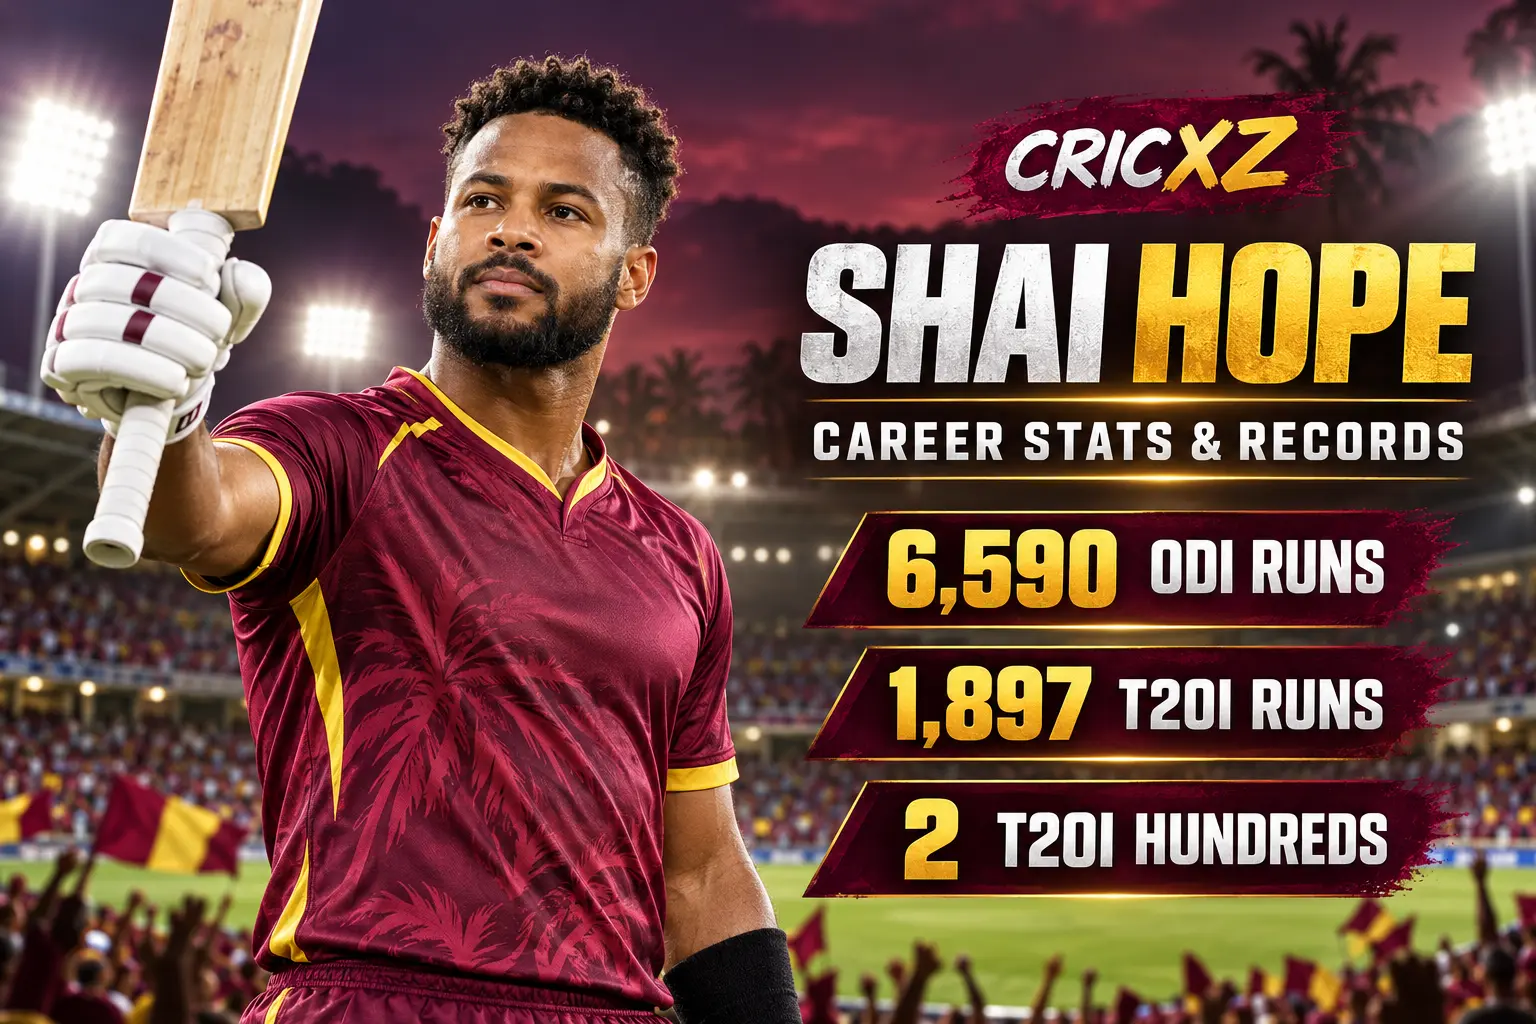
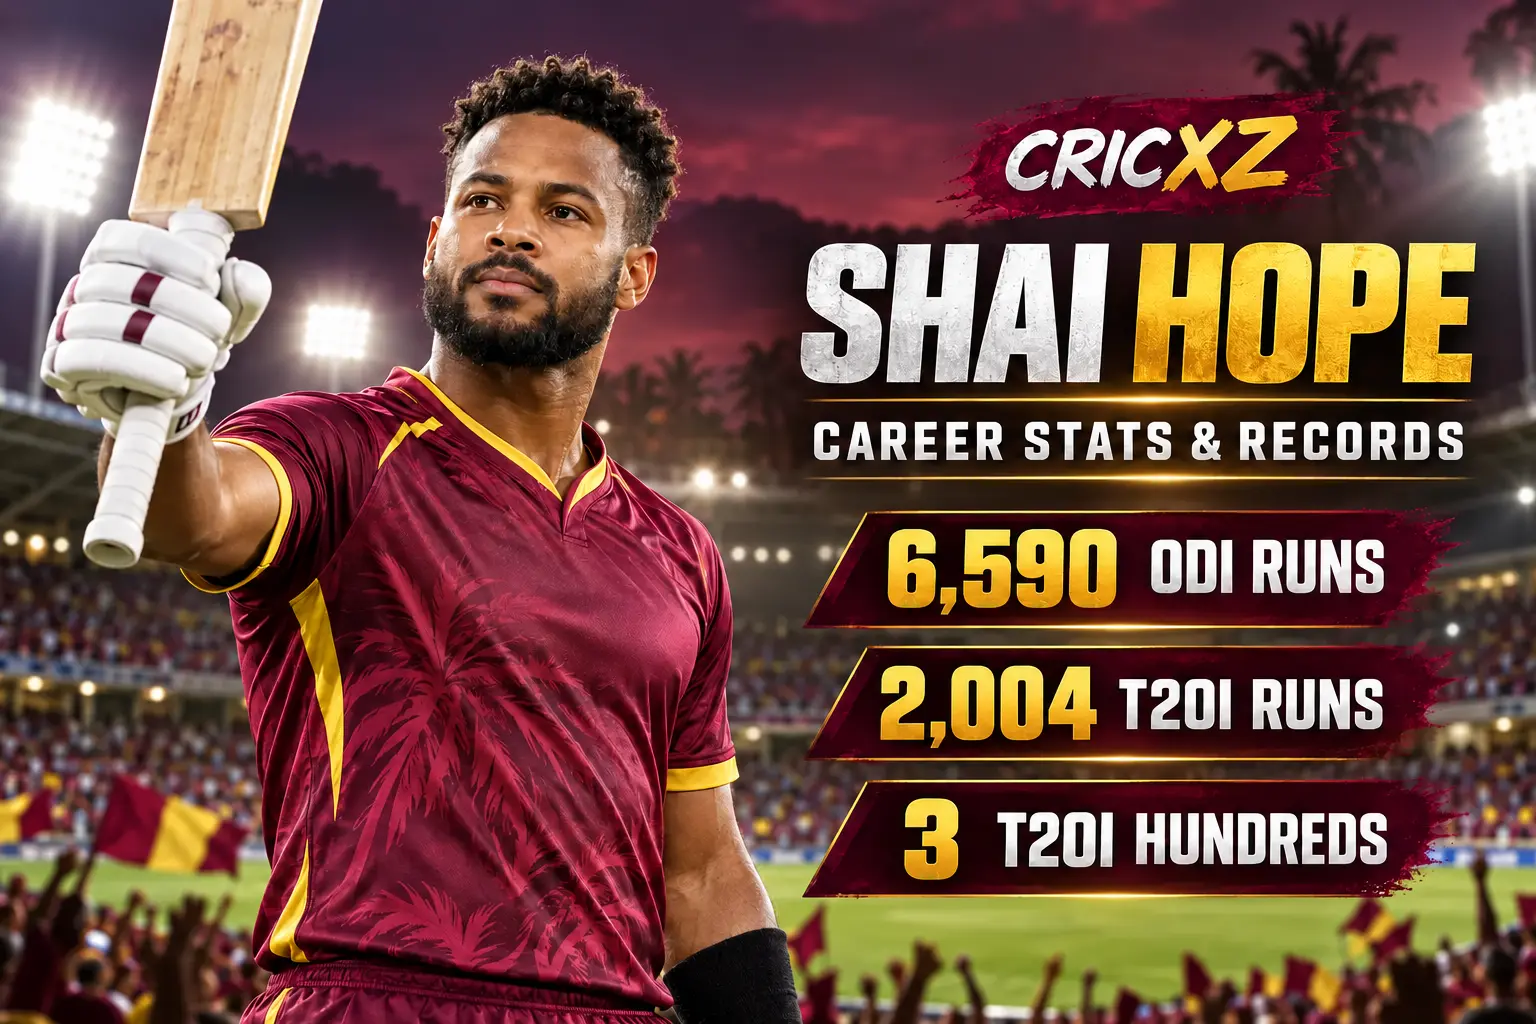
Update Shai Hope profile and T20I career records

diff --git a/pages/shai-hope.html b/pages/shai-hope.html
@@ -9,7 +9,7 @@
 <link rel="apple-touch-icon" sizes="180x180" href="/assets/images/apple-touch-icon.png">
 <script async src="https://pagead2.googlesyndication.com/pagead/js/adsbygoogle.js?client=ca-pub-4846563918248244" crossorigin="anonymous"></script>
 <title>Shai Hope Profile, Career Stats &amp; Records | CricXZ</title>
-<meta name="description" content="Shai Hope profile with verified Test, ODI and T20I career statistics, major records and his unbeaten 102 against India in Ranchi.">
+<meta name="description" content="Shai Hope profile with verified career statistics, three T20I hundreds and unbeaten centuries against India in Ranchi and Hyderabad.">
 <meta name="robots" content="index, follow">
 <link rel="canonical" href="https://cricxz.com/pages/shai-hope.html">
 <meta property="og:title" content="Shai Hope Profile, Career Stats &amp; Records | CricXZ">
@@ -19,7 +19,7 @@
 <meta property="og:image" content="https://cricxz.com/assets/images/players/shai-hope-career-stats-records-cricxz.webp">
 <meta property="og:image:alt" content="CricXZ career statistics graphic for West Indies captain Shai Hope">
 <script type="application/ld+json">
-{"@context":"https://schema.org","@type":"ProfilePage","name":"Shai Hope Profile, Career Stats & Records","url":"https://cricxz.com/pages/shai-hope.html","dateModified":"2026-10-10","mainEntity":{"@type":"Person","name":"Shai Diego Hope","alternateName":"Shai Hope","birthDate":"1993-11-10","birthPlace":{"@type":"Place","name":"Saint Michael, Barbados"},"nationality":{"@type":"Country","name":"Barbados"},"jobTitle":"International cricketer","description":"West Indies white-ball captain and wicketkeeper-batter with an elite ODI record and two T20I hundreds.","url":"https://cricxz.com/pages/shai-hope.html","image":"https://cricxz.com/assets/images/players/shai-hope-career-stats-records-cricxz.webp","mainEntityOfPage":"https://cricxz.com/pages/shai-hope.html"}}
+{"@context":"https://schema.org","@type":"ProfilePage","name":"Shai Hope Profile, Career Stats & Records","url":"https://cricxz.com/pages/shai-hope.html","dateModified":"2026-10-15","mainEntity":{"@type":"Person","name":"Shai Diego Hope","alternateName":"Shai Hope","birthDate":"1993-11-10","birthPlace":{"@type":"Place","name":"Saint Michael, Barbados"},"nationality":{"@type":"Country","name":"Barbados"},"jobTitle":"International cricketer","description":"West Indies white-ball captain and wicketkeeper-batter with an elite ODI record, more than 2,000 T20I runs and three T20I hundreds.","url":"https://cricxz.com/pages/shai-hope.html","image":"https://cricxz.com/assets/images/players/shai-hope-career-stats-records-cricxz.webp","mainEntityOfPage":"https://cricxz.com/pages/shai-hope.html"}}
 </script>
 <link rel="stylesheet" href="../assets/css/style.css">
 <link rel="stylesheet" href="../assets/css/player-profile.css">
@@ -27,31 +27,32 @@
 <body class="profile-page bumrah-profile harmanpreet-profile">
 <nav class="navbar" aria-label="Primary navigation"><div class="logo">CRICXZ</div><button class="menu-toggle" id="menuToggle" type="button" aria-label="Open navigation menu" aria-expanded="false"><span></span><span></span><span></span></button><ul class="menu" id="mainMenu"><li><a href="../index.html">Home</a></li><li><a href="news.html">News</a></li><li><a href="live-scores.html">Live Scores</a></li><li><a href="players.html">Players</a></li><li><a href="about.html">About</a></li><li><a href="contact.html">Contact</a></li></ul></nav>
 <main>
-<section class="profile-hero"><div class="profile-hero-container"><figure class="profile-image bumrah-editorial-image"><img src="../assets/images/players/shai-hope-career-stats-records-cricxz.webp" alt="CricXZ career statistics graphic for West Indies captain Shai Hope"><figcaption>Original CricXZ career graphic &mdash; Shai Hope.</figcaption></figure><div class="profile-intro"><span class="profile-label">WEST INDIES WHITE-BALL CAPTAIN</span><h1><span class="profile-heading-name">Shai Hope</span><span class="profile-heading-details">Profile, Career Stats &amp; Records</span></h1><h2>Wicketkeeper-batter and elite ODI run-scorer</h2><p>Shai Hope is one of the leading West Indies batters of his generation. The right-hander combines an elite ODI record with growing T20 power and led a record chase against India with an unbeaten 102 in Ranchi.</p><div class="profile-tags" aria-label="Player summary"><span>Wicketkeeper-batter</span><span>West Indies</span><span>Right-handed</span><span>White-ball captain</span></div></div></div></section>
+<section class="profile-hero"><div class="profile-hero-container"><figure class="profile-image bumrah-editorial-image"><img src="../assets/images/players/shai-hope-career-stats-records-cricxz.webp" alt="CricXZ career statistics graphic for West Indies captain Shai Hope"><figcaption>Original CricXZ career graphic &mdash; Shai Hope.</figcaption></figure><div class="profile-intro"><span class="profile-label">WEST INDIES WHITE-BALL CAPTAIN</span><h1><span class="profile-heading-name">Shai Hope</span><span class="profile-heading-details">Profile, Career Stats &amp; Records</span></h1><h2>Wicketkeeper-batter and elite ODI run-scorer</h2><p>Shai Hope is one of the leading West Indies batters of his generation. The right-hander combines an elite ODI record with growing T20 power and produced unbeaten centuries against India in Ranchi and Hyderabad during the 2026 T20I series.</p><div class="profile-tags" aria-label="Player summary"><span>Wicketkeeper-batter</span><span>West Indies</span><span>Right-handed</span><span>White-ball captain</span></div></div></div></section>
 
 <section class="profile-information" aria-labelledby="info-heading"><div class="container"><h2 id="info-heading">Player Information</h2><div class="information-card"><div class="information-row"><strong>Full name</strong><span>Shai Diego Hope</span></div><div class="information-row"><strong>Date of birth</strong><span>10 November 1993</span></div><div class="information-row"><strong>Birthplace</strong><span>Saint Michael, Barbados</span></div><div class="information-row"><strong>Nationality</strong><span>West Indian</span></div><div class="information-row"><strong>Role</strong><span>Wicketkeeper-batter</span></div><div class="information-row"><strong>Batting style</strong><span>Right-handed</span></div><div class="information-row"><strong>Leadership</strong><span>West Indies ODI and T20I captain</span></div></div></div></section>
 
 <section class="profile-statistics bumrah-statistics" aria-labelledby="stats-heading"><div class="container"><h2 id="stats-heading">International Career Statistics</h2><div class="bumrah-stats-grid">
 <article class="bumrah-stat-card"><h3>Test Career</h3><dl><div><dt>Matches</dt><dd>49</dd></div><div><dt>Runs</dt><dd>2,518</dd></div><div><dt>Batting average</dt><dd>27.98</dd></div><div><dt>Strike rate</dt><dd>43.84</dd></div><div><dt>Highest score</dt><dd>147</dd></div><div><dt>Hundreds / Fifties</dt><dd>5 / 7</dd></div></dl></article>
 <article class="bumrah-stat-card"><h3>ODI Career</h3><dl><div><dt>Matches</dt><dd>158</dd></div><div><dt>Runs</dt><dd>6,590</dd></div><div><dt>Batting average</dt><dd>51.48</dd></div><div><dt>Strike rate</dt><dd>80.83</dd></div><div><dt>Highest score</dt><dd>170</dd></div><div><dt>Hundreds / Fifties</dt><dd>21 / 32</dd></div></dl></article>
-<article class="bumrah-stat-card"><h3>T20I Career</h3><dl><div><dt>Matches</dt><dd>72</dd></div><div><dt>Runs</dt><dd>1,897</dd></div><div><dt>Batting average</dt><dd>32.15</dd></div><div><dt>Strike rate</dt><dd>139.69</dd></div><div><dt>Highest score</dt><dd>102*</dd></div><div><dt>Hundreds / Fifties</dt><dd>2 / 13</dd></div></dl></article>
-</div><div class="stats-source-note"><p><strong>Career statistics are current through the second India&ndash;West Indies T20I on 9 October 2026.</strong></p><p>Hope remains an active player, so these figures may change after his next appearance. The T20I snapshot includes his scores of 52 and 102* in the first two matches of the current series.</p></div></div></section>
+<article class="bumrah-stat-card"><h3>T20I Career</h3><dl><div><dt>Matches</dt><dd>74</dd></div><div><dt>Runs</dt><dd>2,004</dd></div><div><dt>Batting average</dt><dd>33.40</dd></div><div><dt>Strike rate</dt><dd>141.82</dd></div><div><dt>Highest score</dt><dd>102*</dd></div><div><dt>Hundreds / Fifties</dt><dd>3 / 13</dd></div></dl></article>
+</div><div class="stats-source-note"><p><strong>Career statistics are current through the fourth India&ndash;West Indies T20I on 14 October 2026.</strong></p><p>Hope remains an active player, so these figures may change after his next appearance. He crossed 2,000 T20I runs during his unbeaten 102 in Hyderabad and now has three centuries in the format.</p></div></div></section>
 
 <section class="bumrah-career-copy"><div class="container"><p>Hope built his reputation through patience, balance and consistency in ODI cricket. As West Indies captain, he has added greater intent to his white-ball game while retaining the control that made him one of the fastest players to major ODI run milestones.</p></div></section>
 
 <section class="bumrah-career-copy" aria-labelledby="ranchi-heading"><div class="container"><h2 id="ranchi-heading">Shai Hope's Unbeaten 102 Powers a Record Chase</h2><figure class="profile-feature-figure"><img src="../assets/images/players/shai-hope-102-india-ranchi-cricxz.webp" alt="CricXZ graphic celebrating Shai Hope's unbeaten 102 from 45 balls against India in Ranchi" width="1672" height="941" loading="lazy"><figcaption>Original CricXZ illustration of Hope's match-winning century against India.</figcaption></figure><p>Hope struck an unbeaten 102 from 45 balls against India in Ranchi on 9 October 2026. His innings contained six fours and nine sixes as West Indies chased 250 with nine balls remaining.</p><p>West Indies had slipped to 58/3 before Hope and Sherfane Rutherford added 120. Rutherford made 84 from 37 balls and Romario Shepherd finished with 34 from 13 as <a href="../articles/india-vs-west-indies-second-t20i-2026-result.html">West Indies won the second T20I by six wickets</a> and levelled the series 1&ndash;1. Hope was named Player of the Match.</p></div></section>
 
-<section class="bumrah-career-copy" aria-labelledby="odi-heading"><div class="container"><h2 id="odi-heading">An Elite ODI Record</h2><p>Hope has combined volume with remarkable consistency in ODI cricket, scoring 6,590 runs with 21 hundreds while averaging above 50. His calm accumulation and ability to bat deep have made him the central figure in the West Indies 50-over batting order.</p><p>His leadership period has also featured greater range against spin and a stronger finishing game. Those developments have carried into T20 internationals, where the Ranchi century became the second hundred of his career.</p></div></section>
+<section class="bumrah-career-copy" aria-labelledby="hyderabad-heading"><div class="container"><h2 id="hyderabad-heading">Shai Hope Reaches 2,000 T20I Runs in Hyderabad</h2><figure class="profile-feature-figure"><img src="../assets/images/articles/india-west-indies-fourth-t20i-2026-result-cricxz.webp" alt="CricXZ graphic of Shai Hope's unbeaten 102 against India in the Hyderabad T20I" width="1672" height="941" loading="lazy"><figcaption>CricXZ match-report illustration of Hope's second unbeaten century of the series.</figcaption></figure><p>Hope followed his Ranchi hundred with an unbeaten 102 from 50 balls in Hyderabad on 14 October 2026. He struck four fours and nine sixes, completed the century from the final ball and guided West Indies to 247/3.</p><p>The innings took Hope beyond 2,000 T20I runs and made him the first West Indies batter to score three T20I hundreds. Keemo Paul's 5/41 then completed a <a href="../articles/india-vs-west-indies-fourth-t20i-2026-result.html">24-run victory in the fourth T20I</a>, levelling the series 2&ndash;2. Hope earned his second Player-of-the-Match award of the series.</p></div></section>
+<section class="bumrah-career-copy" aria-labelledby="odi-heading"><div class="container"><h2 id="odi-heading">An Elite ODI Record</h2><p>Hope has combined volume with remarkable consistency in ODI cricket, scoring 6,590 runs with 21 hundreds while averaging above 50. His calm accumulation and ability to bat deep have made him the central figure in the West Indies 50-over batting order.</p><p>His leadership period has also featured greater range against spin and a stronger finishing game. Those developments have carried into T20 internationals, where the unbeaten centuries in Ranchi and Hyderabad lifted his career tally to three.</p></div></section>
 
 <section class="bumrah-debuts" aria-labelledby="debuts-heading"><div class="container"><h2 id="debuts-heading">International Debuts and Career Roles</h2><div class="bumrah-detail-grid"><article><h3>Test debut</h3><p><strong>1 May 2015</strong></p><p>Made his Test debut against England at Bridgetown, Barbados.</p></article><article><h3>ODI debut</h3><p><strong>16 November 2016</strong></p><p>Made his ODI debut against Sri Lanka at Harare.</p></article><article><h3>T20I debut</h3><p><strong>29 December 2017</strong></p><p>Made his T20I debut against New Zealand at Nelson.</p></article></div></div></section>
 
-<section class="profile-achievements bumrah-achievements" aria-labelledby="records-heading"><div class="container"><h2 id="records-heading">Major Records &amp; Achievements</h2><div class="achievement-grid"><article class="achievement-card"><span>21</span><h3>ODI hundreds</h3><p>A prolific century-maker with more than 6,500 ODI runs.</p></article><article class="achievement-card"><span>51.48</span><h3>ODI average</h3><p>Maintains one of the strongest batting averages in modern men's ODI cricket.</p></article><article class="achievement-card"><span>147 &amp; 118*</span><h3>Headingley twin hundreds</h3><p>Scored centuries in both innings as West Indies beat England in 2017.</p></article><article class="achievement-card"><span>102*</span><h3>T20I high score</h3><p>Produced his career-best T20I innings in the 2026 Ranchi chase.</p></article><article class="achievement-card"><span>252/4</span><h3>Record chase</h3><p>Led West Indies to their highest successful T20I chase against India.</p></article><article class="achievement-card"><span>Captain</span><h3>White-ball leadership</h3><p>Leads West Indies in ODI and T20I cricket.</p></article></div></div></section>
+<section class="profile-achievements bumrah-achievements" aria-labelledby="records-heading"><div class="container"><h2 id="records-heading">Major Records &amp; Achievements</h2><div class="achievement-grid"><article class="achievement-card"><span>21</span><h3>ODI hundreds</h3><p>A prolific century-maker with more than 6,500 ODI runs.</p></article><article class="achievement-card"><span>51.48</span><h3>ODI average</h3><p>Maintains one of the strongest batting averages in modern men's ODI cricket.</p></article><article class="achievement-card"><span>147 &amp; 118*</span><h3>Headingley twin hundreds</h3><p>Scored centuries in both innings as West Indies beat England in 2017.</p></article><article class="achievement-card"><span>3</span><h3>T20I hundreds</h3><p>Became the first West Indies batter to score three centuries in T20 internationals.</p></article><article class="achievement-card"><span>252/4</span><h3>Record chase</h3><p>Led West Indies to their highest successful T20I chase against India.</p></article><article class="achievement-card"><span>Captain</span><h3>White-ball leadership</h3><p>Leads West Indies in ODI and T20I cricket.</p></article></div></div></section>
 
-<section class="profile-achievements bumrah-achievements" aria-labelledby="honours-heading"><div class="container"><h2 id="honours-heading">Honours and Career Highlights</h2><div class="achievement-grid"><article class="achievement-card"><span>2017</span><h3>Headingley match-winner</h3><p>His twin hundreds powered a famous West Indies Test victory in England.</p></article><article class="achievement-card"><span>ICC</span><h3>ODI Team recognition</h3><p>Selected in ICC men's ODI teams after outstanding calendar-year performances.</p></article><article class="achievement-card"><span>2026</span><h3>Ranchi Player of the Match</h3><p>Won the award for his unbeaten 102 in a six-wicket victory over India.</p></article><article class="achievement-card"><span>2</span><h3>T20I hundreds</h3><p>Converted his expanding T20 game into two international hundreds.</p></article></div></div></section>
+<section class="profile-achievements bumrah-achievements" aria-labelledby="honours-heading"><div class="container"><h2 id="honours-heading">Honours and Career Highlights</h2><div class="achievement-grid"><article class="achievement-card"><span>2017</span><h3>Headingley match-winner</h3><p>His twin hundreds powered a famous West Indies Test victory in England.</p></article><article class="achievement-card"><span>ICC</span><h3>ODI Team recognition</h3><p>Selected in ICC men's ODI teams after outstanding calendar-year performances.</p></article><article class="achievement-card"><span>2026</span><h3>Ranchi Player of the Match</h3><p>Won the award for his unbeaten 102 in a six-wicket victory over India.</p></article><article class="achievement-card"><span>2</span><h3>Hundreds in one series</h3><p>Scored unbeaten centuries in Ranchi and Hyderabad during the 2026 series against India.</p></article></div></div></section>
 
-<section class="bumrah-sources" aria-labelledby="sources-heading"><div class="container"><h2 id="sources-heading">Sources</h2><ul><li><a href="https://www.icc-cricket.com/rankings/63797/shai-hope" target="_blank" rel="noopener noreferrer">ICC: Shai Hope player profile and international record</a></li><li><a href="https://www.espncricinfo.com/cricketers/shai-hope-581379" target="_blank" rel="noopener noreferrer">ESPNcricinfo: Shai Hope profile and career statistics</a></li><li><a href="https://www.cricbuzz.com/profiles/10384/shai-hope" target="_blank" rel="noopener noreferrer">Cricbuzz: Shai Hope career snapshot</a></li><li><a href="https://indianexpress.com/article/sports/cricket/shai-hope-sherfane-rutherford-star-west-indies-india-series-level-10914682/" target="_blank" rel="noopener noreferrer">The Indian Express: Hope and Rutherford lead Ranchi chase</a></li></ul><p><em>Career statistics and recent-match details were checked on 10 October 2026.</em></p></div></section>
+<section class="bumrah-sources" aria-labelledby="sources-heading"><div class="container"><h2 id="sources-heading">Sources</h2><ul><li><a href="https://www.icc-cricket.com/rankings/63797/shai-hope" target="_blank" rel="noopener noreferrer">ICC: Shai Hope player profile and international record</a></li><li><a href="https://www.espncricinfo.com/cricketers/shai-hope-581379" target="_blank" rel="noopener noreferrer">ESPNcricinfo: Shai Hope profile and career statistics</a></li><li><a href="https://www.cricbuzz.com/profiles/10384/shai-hope" target="_blank" rel="noopener noreferrer">Cricbuzz: Shai Hope career snapshot</a></li><li><a href="https://indianexpress.com/article/sports/cricket/shai-hope-sherfane-rutherford-star-west-indies-india-series-level-10914682/" target="_blank" rel="noopener noreferrer">The Indian Express: Hope and Rutherford lead Ranchi chase</a></li><li><a href="https://www.icc-cricket.com/news/hope-paul-power-west-indies-to-level-t20i-series-against-india" target="_blank" rel="noopener noreferrer">ICC: Hope and Paul level the T20I series in Hyderabad</a></li></ul><p><em>Career statistics and recent-match details were checked on 15 October 2026.</em></p></div></section>
 
-<section class="bumrah-career-copy" aria-labelledby="related-hope-heading"><div class="container"><h2 id="related-hope-heading">Explore Shai Hope's Recent Performances</h2><p>Read the <a href="../articles/india-vs-west-indies-second-t20i-2026-result.html">second-T20I match report from Ranchi</a>, revisit India's <a href="../articles/india-vs-west-indies-first-t20i-2026-result.html">series-opening victory</a>, or browse all <a href="players.html">CricXZ player profiles</a>.</p></div></section>
+<section class="bumrah-career-copy" aria-labelledby="related-hope-heading"><div class="container"><h2 id="related-hope-heading">Explore Shai Hope's Recent Performances</h2><p>Read Hope's <a href="../articles/india-vs-west-indies-fourth-t20i-2026-result.html">second century and victory in Hyderabad</a>, revisit the <a href="../articles/india-vs-west-indies-second-t20i-2026-result.html">record chase in Ranchi</a>, or browse all <a href="players.html">CricXZ player profiles</a>.</p></div></section>
 <section class="related-news" aria-labelledby="related-heading"><div class="container"><h2 id="related-heading">Explore CricXZ</h2><div class="related-grid"><a href="news.html" class="related-card"><h3>Latest Cricket News</h3><p>Browse cricket reporting and updates published by CricXZ.</p><span>View News &rarr;</span></a><a href="players.html" class="related-card"><h3>Player Profiles</h3><p>Explore cricket player profiles and verified career statistics.</p><span>View Players &rarr;</span></a><a href="live-scores.html" class="related-card"><h3>Live Scores</h3><p>Visit the CricXZ live scores section.</p><span>View Scores &rarr;</span></a></div></div></section><div class="back-to-players"><a href="players.html">&larr; Back to All Players</a></div>
 </main>
 <footer class="footer"><div class="footer-container"><div><div class="footer-logo">CRICXZ</div><p>CricXZ brings you the latest cricket news, live scores, player profiles, rankings and match updates from around the world.</p></div><div><h2>Quick Links</h2><ul><li><a href="../index.html">Home</a></li><li><a href="news.html">News</a></li><li><a href="live-scores.html">Live Scores</a></li><li><a href="players.html">Players</a></li></ul></div><div><h2>Categories</h2><ul><li><span>IPL</span></li><li><span>ICC</span></li><li><span>ODI</span></li><li><span>T20I</span></li></ul></div></div><div class="footer-bottom">&copy; 2026 CricXZ &bull; All Rights Reserved.</div></footer>

diff --git a/assets/js/search-data.js b/assets/js/search-data.js
@@ -8,7 +8,7 @@ const searchData = [
   { title: "India Beat West Indies by 14 Runs in 3rd T20I", type: "News", category: "T20I", description: "Abhishek Sharma hit 69 and Arshdeep Singh took 3/44 as India defended 223 in Indore.", url: "articles/india-vs-west-indies-third-t20i-2026-result.html", keywords: "India West Indies 3rd T20I 2026 result Abhishek Sharma 69 Arshdeep Singh 3/44 Indore" },
   { title: "Sherfane Rutherford Profile, Career Stats & Records", type: "Player", category: "West Indies", description: "West Indies power batter with 1,042 T20I runs, a 152.79 strike rate and a career-best 84 against India.", url: "pages/sherfane-rutherford.html", keywords: "Sherfane Rutherford profile career stats records West Indies T20I ODI IPL 84 India Ranchi" },
   { title: "Tilak Varma Profile, Career Stats & Records", type: "Player", category: "India", description: "India left-handed batter with 1,762 T20I runs, two hundreds and more than 5,000 career T20 runs.", url: "pages/tilak-varma.html", keywords: "Tilak Varma profile career stats records T20I IPL India 44 West Indies 5000 T20 runs" },
-  { title: "Shai Hope Profile, Career Stats & Records", type: "Player", category: "West Indies", description: "West Indies captain with 6,590 ODI runs, two T20I hundreds and an unbeaten 102 against India.", url: "pages/shai-hope.html", keywords: "Shai Hope profile career stats records ODI T20I West Indies captain 102 India Ranchi" },
+  { title: "Shai Hope Profile, Career Stats & Records", type: "Player", category: "West Indies", description: "West Indies captain with 6,590 ODI runs, 2,004 T20I runs and three T20I hundreds.", url: "pages/shai-hope.html", keywords: "Shai Hope profile career stats records ODI T20I West Indies captain 2004 runs three centuries 102 India Hyderabad Ranchi" },
   { title: "Sanju Samson Profile, Career Stats & Records", type: "Player", category: "India", description: "India wicketkeeper-batter with 1,660 T20I runs, three T20I hundreds and 5,181 IPL runs.", url: "pages/sanju-samson.html", keywords: "Sanju Samson profile career stats records T20I IPL ODI India wicketkeeper 82 West Indies" },
   { title: "West Indies Beat India by 6 Wickets in 2nd T20I", type: "News", category: "T20I", description: "Shai Hope hit 102 not out as West Indies chased 250 in Ranchi to level the series 1-1.", url: "articles/india-vs-west-indies-second-t20i-2026-result.html", keywords: "India West Indies 2nd T20I 2026 result Shai Hope 102 Rutherford 84 Ranchi record chase" },
   {
